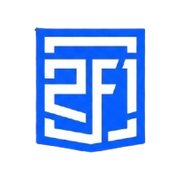
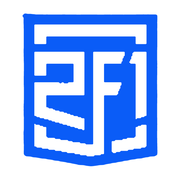
v52 : envoi de notifications depuis l'admin (modèles, cibles, aperçu, envoi par lots), icône agrandie et nette, ouverture des boosters plus propre et plus calme
Claude-Session: https://claude.ai/code/session_01S2mVUtxJozswLfpvQnH4yG

diff --git a/functions/api/[[route]].js b/functions/api/[[route]].js
@@ -100,6 +100,8 @@ const SCHEMA = [
   `CREATE TABLE IF NOT EXISTS photos_perso ( carte TEXT PRIMARY KEY, image TEXT NOT NULL, maj INTEGER NOT NULL )`,
   `CREATE TABLE IF NOT EXISTS rangs ( cle TEXT PRIMARY KEY, nom TEXT NOT NULL, couleur TEXT NOT NULL DEFAULT '#888888', description TEXT NOT NULL DEFAULT '', min_pts INTEGER NOT NULL DEFAULT 0, max_pts INTEGER, ordre INTEGER NOT NULL DEFAULT 0, actif INTEGER NOT NULL DEFAULT 1, divisions INTEGER NOT NULL DEFAULT 1, montee TEXT NOT NULL DEFAULT '', descente TEXT NOT NULL DEFAULT '', recompense_pieces INTEGER NOT NULL DEFAULT 0, recompense_boosters INTEGER NOT NULL DEFAULT 0, logo TEXT, logo_maj INTEGER NOT NULL DEFAULT 0 )`,
   `CREATE TABLE IF NOT EXISTS offres ( cle TEXT PRIMARY KEY, nom TEXT NOT NULL, description TEXT NOT NULL DEFAULT '', badge TEXT NOT NULL DEFAULT '', prix_cents INTEGER NOT NULL, prix_reference_cents INTEGER, reference_note TEXT NOT NULL DEFAULT '', pieces INTEGER NOT NULL DEFAULT 0, boosters TEXT NOT NULL DEFAULT '{}', une_fois INTEGER NOT NULL DEFAULT 0, actif INTEGER NOT NULL DEFAULT 1, ordre INTEGER NOT NULL DEFAULT 0, debut INTEGER, fin INTEGER, maj INTEGER NOT NULL DEFAULT 0 )`,
+  `CREATE TABLE IF NOT EXISTS notifs_campagnes ( id INTEGER PRIMARY KEY AUTOINCREMENT, titre TEXT NOT NULL, texte TEXT NOT NULL, url TEXT NOT NULL, cible TEXT NOT NULL, total INTEGER NOT NULL DEFAULT 0, envoyes INTEGER NOT NULL DEFAULT 0, par TEXT, cree_le INTEGER NOT NULL )`,
+  `CREATE TABLE IF NOT EXISTS notifs_file ( campagne_id INTEGER NOT NULL, user_id INTEGER NOT NULL, PRIMARY KEY (campagne_id, user_id) )`,
   `CREATE TABLE IF NOT EXISTS ouvertures_semaine ( semaine TEXT NOT NULL, user_id INTEGER NOT NULL REFERENCES users(id) ON DELETE CASCADE, score INTEGER NOT NULL, cartes TEXT NOT NULL, pack TEXT, cree_le INTEGER NOT NULL, PRIMARY KEY (semaine, user_id) )`,
   `CREATE TABLE IF NOT EXISTS cosmetiques_achats ( user_id INTEGER NOT NULL REFERENCES users(id) ON DELETE CASCADE, cle TEXT NOT NULL, cree_le INTEGER NOT NULL, PRIMARY KEY (user_id, cle) )`,
   `CREATE TABLE IF NOT EXISTS createurs ( code TEXT PRIMARY KEY COLLATE NOCASE, user_id INTEGER NOT NULL UNIQUE REFERENCES users(id) ON DELETE CASCADE, part INTEGER NOT NULL DEFAULT 10, actif INTEGER NOT NULL DEFAULT 1, cree_le INTEGER NOT NULL )`,
@@ -2724,6 +2726,59 @@ route("GET", "admin/combats", async ({ env }) => {
   const cartes = Object.values(st).map((x) => ({ ...x, taux: Math.round((x.gagnes / x.joues) * 100) }));
   return json({ parJour: { arene: parJourA.results, duels: parJourD.results }, modes: modes.results[0],
     plusJouees: cartes.sort((a, b) => b.joues - a.joues).slice(0, 15), meilleures: cartes.filter((x) => x.joues >= 5).sort((a, b) => b.taux - a.taux).slice(0, 10), pires: cartes.filter((x) => x.joues >= 5).sort((a, b) => a.taux - b.taux).slice(0, 10) });
+}, { admin: true });
+
+
+/* =====================================================================
+   Notifications de l'admin : envoyer une notification (événement, annonce…) à tous ou à un groupe de joueurs
+   L'envoi se fait par lots, relancés par la page d'admin, pour rester sous les limites du Worker.
+   ===================================================================== */
+const CIBLES_NOTIF = {
+  tous: { nom: "Tous les joueurs abonnés", sql: "SELECT DISTINCT a.user_id FROM abonnements a JOIN users u ON u.id = a.user_id WHERE u.banni = 0", args: () => [] },
+  actifs: { nom: "Joueurs actifs (7 derniers jours)", sql: "SELECT DISTINCT a.user_id FROM abonnements a JOIN users u ON u.id = a.user_id WHERE u.banni = 0 AND u.derniere_co > ?", args: (t) => [t - 7 * JOUR] },
+  inactifs: { nom: "Joueurs absents depuis 3 jours (pour les faire revenir)", sql: "SELECT DISTINCT a.user_id FROM abonnements a JOIN users u ON u.id = a.user_id WHERE u.banni = 0 AND COALESCE(u.derniere_co, 0) < ?", args: (t) => [t - 3 * JOUR] },
+  premium: { nom: "Joueurs Premium", sql: "SELECT DISTINCT a.user_id FROM abonnements a JOIN users u ON u.id = a.user_id WHERE u.banni = 0 AND u.premium_jusqu > ?", args: (t) => [t] },
+  guildes: { nom: "Membres d'une guilde", sql: "SELECT DISTINCT a.user_id FROM abonnements a JOIN users u ON u.id = a.user_id JOIN guilde_membres m ON m.user_id = u.id WHERE u.banni = 0", args: () => [] },
+};
+const PAGES_NOTIF = ["accueil", "boosters", "ligues", "hub", "missions", "combat", "albums", "decks", "succes", "passe", "samedi", "guilde", "premium"];
+route("GET", "admin/notifs", async ({ env }) => {
+  const t = maintenant(), comptes = {};
+  for (const [k, c] of Object.entries(CIBLES_NOTIF)) comptes[k] = (await env.DB.prepare(`SELECT COUNT(*) AS n FROM (${c.sql})`).bind(...c.args(t)).first()).n;
+  const { results } = await env.DB.prepare("SELECT id, titre, texte, url, cible, total, envoyes, par, cree_le FROM notifs_campagnes ORDER BY id DESC LIMIT 20").all();
+  return json({ cibles: Object.fromEntries(Object.entries(CIBLES_NOTIF).map(([k, c]) => [k, { nom: c.nom, n: comptes[k] }])), pages: PAGES_NOTIF, historique: results });
+}, { admin: true });
+route("POST", "admin/notifs", async ({ request, env, user }) => {
+  const b = await corps(request), t = maintenant();
+  const titre = String(b.titre || "").trim().slice(0, 80), texte = String(b.texte || "").trim().slice(0, 200);
+  if (titre.length < 2 || texte.length < 2) return erreur("Indiquez un titre et un message.");
+  const page = PAGES_NOTIF.includes(b.page) ? b.page : "accueil", url = page === "accueil" ? "./" : "./#" + page;
+  let ids;
+  if (b.cible === "pseudo") {
+    const u = await env.DB.prepare("SELECT id FROM users WHERE pseudo = ?").bind(String(b.pseudo || "")).first();
+    if (!u) return erreur("Joueur introuvable.", 404);
+    ids = [u.id];
+  } else {
+    const c = CIBLES_NOTIF[b.cible]; if (!c) return erreur("Cible inconnue.");
+    ids = (await env.DB.prepare(c.sql).bind(...c.args(t)).all()).results.map((x) => x.user_id);
+  }
+  if (!ids.length) return erreur("Aucun joueur abonné aux notifications dans cette cible.");
+  const r = await env.DB.prepare("INSERT INTO notifs_campagnes (titre, texte, url, cible, total, par, cree_le) VALUES (?, ?, ?, ?, ?, ?, ?)").bind(titre, texte, url, b.cible === "pseudo" ? "@" + b.pseudo : b.cible, ids.length, user.pseudo, t).run();
+  const id = r.meta.last_row_id;
+  for (let i = 0; i < ids.length; i += 50) await env.DB.batch(ids.slice(i, i + 50).map((u) => env.DB.prepare("INSERT OR IGNORE INTO notifs_file (campagne_id, user_id) VALUES (?, ?)").bind(id, u)));
+  await journaliser(env, user.id, "notification envoyée", `${titre} → ${ids.length} joueur(s)`, "admin");
+  return json({ id, total: ids.length });
+}, { admin: true });
+route("POST", "admin/notifs/(\\d+)/envoyer", async ({ env, p }) => {
+  const c = await env.DB.prepare("SELECT * FROM notifs_campagnes WHERE id = ?").bind(p[1]).first();
+  if (!c) return erreur("Envoi introuvable.", 404);
+  const { results } = await env.DB.prepare("SELECT user_id FROM notifs_file WHERE campagne_id = ? LIMIT 15").bind(c.id).all();
+  for (const { user_id } of results) {
+    await envoyerPush(env, user_id, { titre: c.titre, texte: c.texte, url: c.url }).catch((e) => console.error("notif", e));
+    await env.DB.prepare("DELETE FROM notifs_file WHERE campagne_id = ? AND user_id = ?").bind(c.id, user_id).run();
+  }
+  if (results.length) await env.DB.prepare("UPDATE notifs_campagnes SET envoyes = envoyes + ? WHERE id = ?").bind(results.length, c.id).run();
+  const reste = (await env.DB.prepare("SELECT COUNT(*) AS n FROM notifs_file WHERE campagne_id = ?").bind(c.id).first()).n;
+  return json({ envoyes: c.envoyes + results.length, total: c.total, restants: reste });
 }, { admin: true });
 
 /* =====================================================================

diff --git a/worldcards/v4.js b/worldcards/v4.js
@@ -1155,3 +1155,48 @@ async function adminImages(el) {
     });
   } catch (e) { el.innerHTML = `<p class="err">${esc(e.message)}</p>`; }
 }
+
+/* ---------- Admin : envoyer une notification aux joueurs ---------- */
+const MODELES_NOTIF = [
+  ["🎉 Événement en cours", "🎉 Événement en cours !", "Un événement vient de commencer sur Play2F1 : venez en profiter maintenant !", "accueil"],
+  ["🏟 Tournoi", "🏟 Le tournoi commence !", "Le tournoi du samedi ouvre ses inscriptions : rejoignez-le avant le départ.", "samedi"],
+  ["🎁 Nouveau booster", "🎁 Nouveau booster disponible", "Un nouveau booster vient d'arriver dans la boutique. Qui sortira la légendaire ?", "boosters"],
+  ["⚔ Week-end classé", "⚔ Week-end de combats classés", "Grimpez dans votre ligue ce week-end : la guerre de guildes a commencé !", "ligues"],
+  ["🔧 Maintenance", "🔧 Petite pause technique", "Play2F1 fait une courte maintenance. Merci de votre patience, on revient vite !", "accueil"],
+];
+async function adminNotifs(el) {
+  el.innerHTML = `<p class="muted">Chargement…</p>`;
+  let d; try { d = await api("admin/notifs"); } catch (e) { el.innerHTML = `<p class="err">${esc(e.message)}</p>`; return; }
+  const NOMS_PAGES = { accueil: "Accueil", boosters: "Boutique", ligues: "Ligues", hub: "Communauté", missions: "Missions", combat: "Combat", albums: "Albums", decks: "Decks", succes: "Succès", passe: "Passe de saison", samedi: "Tournoi du samedi", guilde: "Guildes", premium: "Premium" };
+  el.innerHTML = `<section class="panel"><h3 style="margin-top:0">🔔 Envoyer une notification</h3>
+      <p class="muted">Elle arrive sur le téléphone ou l'ordinateur des joueurs qui ont activé les notifications, même jeu fermé. Toucher la notification ouvre la page choisie.</p>
+      <div class="toolbar">${MODELES_NOTIF.map((m, i) => `<button class="chip" data-modele="${i}">${esc(m[0])}</button>`).join("")}</div>
+      <form class="form" id="fNotif"><div class="rf-grille">
+        <label class="large">Titre<input name="titre" maxlength="80" required placeholder="Ex. : 🎉 Événement Halloween en cours !"></label>
+        <label class="large">Message<input name="texte" maxlength="200" required placeholder="Ex. : 12 cartes exclusives jusqu'à dimanche : ouvrez vite un booster !"></label>
+        <label>Page ouverte au toucher<select name="page">${d.pages.map((p) => `<option value="${p}">${esc(NOMS_PAGES[p] || p)}</option>`).join("")}</select></label>
+        <label>Destinataires<select name="cible">${Object.entries(d.cibles).map(([k, c]) => `<option value="${k}">${esc(c.nom)} (${c.n})</option>`).join("")}<option value="pseudo">Un seul joueur (test)</option></select></label>
+        <label id="nfPseudo" hidden>Pseudo<input name="pseudo" maxlength="20"></label></div>
+        <div class="notif-apercu"><img src="icons/icon-192.png" alt=""><div><b id="nfT">Titre</b><span id="nfX">Message</span></div><small>Play2F1 · maintenant</small></div>
+        <button class="btn primary" id="nfGo">📣 Envoyer</button> <span class="muted" id="nfEtat"></span></form></section>
+    <section class="panel"><h3 style="margin-top:0">Historique</h3>${d.historique.length ? `<table class="classement"><tbody>${d.historique.map((h) => `<tr><td>${depuis(h.cree_le)}</td><td><b>${esc(h.titre)}</b><br><small class="muted">${esc(h.texte)}</small></td><td>${esc(d.cibles[h.cible]?.nom || h.cible)}</td><td>${h.envoyes}/${h.total}</td></tr>`).join("")}</tbody></table>` : `<p class="muted">Aucune notification envoyée pour l'instant.</p>`}</section>`;
+  const f = $("#fNotif");
+  const apercu = () => { $("#nfT").textContent = f.titre.value || "Titre"; $("#nfX").textContent = f.texte.value || "Message"; $("#nfPseudo").hidden = f.cible.value !== "pseudo"; };
+  f.oninput = apercu; f.onchange = apercu;
+  $$("[data-modele]", el).forEach((b) => b.onclick = () => { const m = MODELES_NOTIF[b.dataset.modele]; f.titre.value = m[1]; f.texte.value = m[2]; f.page.value = m[3]; apercu(); });
+  f.onsubmit = async (e) => {
+    e.preventDefault();
+    const nb = f.cible.value === "pseudo" ? 1 : d.cibles[f.cible.value]?.n || 0;
+    if (!confirm(`Envoyer « ${f.titre.value} » à ${nb} joueur(s) ?`)) return;
+    $("#nfGo").disabled = true;
+    try {
+      const { id, total } = await api("admin/notifs", { methode: "POST", corps: Object.fromEntries(new FormData(f)) });
+      for (;;) {
+        const r = await api(`admin/notifs/${id}/envoyer`, { methode: "POST", corps: {} });
+        $("#nfEtat").textContent = `Envoi… ${r.envoyes}/${total}`;
+        if (!r.restants) break;
+      }
+      toast(`📣 Notification envoyée à ${total} joueur(s).`); adminNotifs(el);
+    } catch (err) { $("#nfEtat").textContent = "⚠ " + err.message; $("#nfGo").disabled = false; }
+  };
+}

diff --git a/worldcards/compte.js b/worldcards/compte.js
@@ -965,7 +965,7 @@ async function vueAdmin(v) {
   if (!COMPTE.admin) { v.innerHTML = `<div class="panel"><p>Accès réservé à l'administrateur.</p><button class="btn" data-aller="compte">Mon compte</button></div>`; brancherLiens(v); return; }
   v.innerHTML = `<div class="sectiontitle"><h3>👑 Administration</h3><span class="muted">Connecté en tant que ${esc(COMPTE.pseudo)}</span></div>
     <div class="statgrid" id="aStats"><div class="stat"><b>…</b><span>chargement</span></div></div>
-    <div class="toolbar" style="margin-top:16px">${[["joueurs", "👥 Joueurs"], ["metrics", "📊 Trafic & Métriques"], ["securite", "🚨 Bouclier Anti-Bot"], ["bugs", "💡 Boîte à Idées & Bugs"], ["evenements", "🎉 Événements"], ["photos", "📷 Photos"], ["avatars", "🖼 Photos de profil"], ["moderation", "🛡 Modération"], ["ventes", "💰 Ventes"], ["visuels", "🖼 Visuels boosters"], ["offres", "🛍 Packs & offres"], ["createurs", "🎙 Créateurs & dédicaces"], ["combats", "📊 Combats"], ["ligues", "🏅 Ligues et rangs"], ["reglages", "🎲 Chances & règles"], ["images", "💾 Images & stockage"], ["integrations", "🔌 Intégrations"], ["premium", "💎 Premium"], ["signalements", "🚩 Signalements"], ["cadeaux", "🎁 Cadeaux"], ["annonce", "📌 Annonce"], ["outils", "🧪 Outils de test"]].map(([k, l]) => `<button class="chip ${adminEtat.onglet === k ? "on" : ""}" data-a="${k}">${l}</button>`).join("")}</div>
+    <div class="toolbar" style="margin-top:16px">${[["joueurs", "👥 Joueurs"], ["metrics", "📊 Trafic & Métriques"], ["securite", "🚨 Bouclier Anti-Bot"], ["bugs", "💡 Boîte à Idées & Bugs"], ["evenements", "🎉 Événements"], ["photos", "📷 Photos"], ["avatars", "🖼 Photos de profil"], ["moderation", "🛡 Modération"], ["ventes", "💰 Ventes"], ["visuels", "🖼 Visuels boosters"], ["offres", "🛍 Packs & offres"], ["createurs", "🎙 Créateurs & dédicaces"], ["combats", "📊 Combats"], ["ligues", "🏅 Ligues et rangs"], ["reglages", "🎲 Chances & règles"], ["images", "💾 Images & stockage"], ["integrations", "🔌 Intégrations"], ["premium", "💎 Premium"], ["signalements", "🚩 Signalements"], ["cadeaux", "🎁 Cadeaux"], ["notifs", "🔔 Notifications"], ["annonce", "📌 Annonce"], ["outils", "🧪 Outils de test"]].map(([k, l]) => `<button class="chip ${adminEtat.onglet === k ? "on" : ""}" data-a="${k}">${l}</button>`).join("")}</div>
     <div id="aCorps"></div>`;
   $$("[data-a]", v).forEach((b) => b.onclick = () => { adminEtat.onglet = b.dataset.a; aller("admin"); });
   api("admin/stats").then((s) => {
@@ -973,7 +973,7 @@ async function vueAdmin(v) {
       .map(([l, n]) => `<div class="stat"><b>${fmt(n)}</b><span>${l}</span></div>`).join("");
   }).catch((e) => { $("#aStats").innerHTML = `<p class="err">${esc(e.message)}</p>`; });
   const corps = $("#aCorps");
-  ({ joueurs: adminJoueurs, metrics: adminMetrics, securite: adminSecurite, bugs: adminBugs, evenements: adminEvenements, photos: adminPhotos, avatars: adminAvatars, moderation: adminModeration, integrations: adminIntegrations, ventes: adminVentes, visuels: adminVisuels, offres: adminOffres, createurs: adminCreateurs, ligues: adminRangs, combats: adminCombats, images: adminImages, reglages: adminReglages, premium: adminPremium, signalements: adminSignalements, cadeaux: adminCadeaux, annonce: adminAnnonce, outils: adminOutils })[adminEtat.onglet](corps);
+  ({ joueurs: adminJoueurs, metrics: adminMetrics, securite: adminSecurite, bugs: adminBugs, evenements: adminEvenements, photos: adminPhotos, avatars: adminAvatars, moderation: adminModeration, integrations: adminIntegrations, ventes: adminVentes, visuels: adminVisuels, offres: adminOffres, createurs: adminCreateurs, ligues: adminRangs, combats: adminCombats, images: adminImages, reglages: adminReglages, premium: adminPremium, signalements: adminSignalements, cadeaux: adminCadeaux, notifs: adminNotifs, annonce: adminAnnonce, outils: adminOutils })[adminEtat.onglet](corps);
 }
 async function adminJoueurs(el) {
   el.innerHTML = `<input class="search" id="aq" type="search" placeholder="Rechercher un joueur…" value="${esc(adminEtat.q)}" style="max-width:none;width:100%;margin-bottom:10px">

diff --git a/worldcards/style.css b/worldcards/style.css
@@ -2034,3 +2034,31 @@ body[data-fond-streamer="vert"] { background: #00b140 !important; } body[data-fo
 .barres > div { position: relative; flex: 1; height: 100%; display: flex; flex-direction: column-reverse; }
 .barres i { display: block; width: 100%; } .barres .b-arene { background: var(--muted); border-radius: 4px 4px 0 0; } .barres .b-duel { background: var(--accent); }
 .barres small { position: absolute; bottom: -18px; left: 50%; transform: translateX(-50%); font-size: 10.5px; color: var(--muted); }
+.notif-apercu { display: grid; grid-template-columns: 40px 1fr auto; gap: 10px; align-items: center; max-width: 420px; margin: 12px 0; padding: 10px 12px; border-radius: 14px; background: rgba(240, 240, 245, .96); color: #111; box-shadow: 0 6px 20px rgba(0,0,0,.3); }
+.notif-apercu img { width: 40px; height: 40px; border-radius: 10px; } .notif-apercu div { display: flex; flex-direction: column; min-width: 0; } .notif-apercu span { font-size: 13.5px; } .notif-apercu small { color: #666; align-self: start; font-size: 11px; }
+
+/* ===== Ouverture des boosters : cadre propre et animations calmes ===== */
+/* Plus de barres de défilement : les effets restent dans la fenêtre */
+#modal.plein .box:has(.poke) { overflow-x: hidden; }
+.poke-scene:not(:has(.opening)) { overflow: hidden; border-radius: 20px; }
+/* Une fois retournée, le dos de la carte disparaît (il dépassait derrière la carte en cadre coloré) */
+.pk-carte .flip.done > .face.back { visibility: hidden; transition: visibility 0s .25s; }
+/* Un halo fixe de la couleur de la rareté remplace les rayons qui tournaient */
+.pk-carte.eclat::before { inset: -22%; -webkit-mask: none; mask: none; filter: blur(8px); animation: apparait .5s ease-out;
+  background: radial-gradient(closest-side, var(--halo, rgba(255, 230, 140, .5)), transparent 78%); }
+.pk-carte.eclat:has(.shiny)::before { background: radial-gradient(closest-side, rgba(255, 106, 213, .38), rgba(110, 255, 198, .22) 55%, transparent 80%); }
+.poke-scene[data-ambiance="rare"] { --halo: rgba(90, 150, 255, .42); }
+.poke-scene[data-ambiance="epique"] { --halo: rgba(170, 100, 255, .45); }
+.poke-scene[data-ambiance="ultra-rare"] { --halo: rgba(255, 100, 80, .45); }
+.poke-scene[data-ambiance="legendaire"] { --halo: rgba(255, 200, 60, .5); }
+.poke-scene[data-ambiance] { background: none; }
+/* Suspense : la carte respire doucement au lieu de trembler */
+.flip.suspense { animation: suspense-doux .55s ease-in-out infinite alternate; }
+@keyframes suspense-doux { to { transform: scale(1.035); } }
+/* Le dos des cartes rares brille sans clignoter, le paquet flotte à peine */
+.pk-carte .flip.grand > .face.back.glow-legendaire, .pk-carte .flip.grand > .face.back.glow-shiny { animation: none; }
+.pack.grand:not(.dechire) { animation: flotte-doux 3.2s ease-in-out infinite; }
+@keyframes flotte-doux { 50% { transform: translateY(-5px); } }
+/* Pendant l'ouverture, la carte reste droite (elle ne suit plus la souris) */
+.pk-carte .card.tilt { transform: none !important; }
+.pk-carte .card.tilt .in::before { content: none; }

diff --git a/worldcards/app.js b/worldcards/app.js
@@ -39,7 +39,7 @@ const RARETES = {
 const TYPES = { pays: "Pays", ville: "Ville", monument: "Monument", nature: "Nature", animal: "Animal", plat: "Gastronomie", culture: "Culture", merveille: "Merveille", secrete: "Secrète" };
 const EMOJI_TYPE = { pays: "🌍", ville: "🏙", monument: "🏛", nature: "🏔", animal: "🐾", plat: "🍜", culture: "🎭", merveille: "🌟", secrete: "✦" };
 const PLURIEL = { pays: "Pays", ville: "Villes", monument: "Monuments", nature: "Nature", animal: "Animaux", plat: "Gastronomie", culture: "Culture", merveille: "Merveilles", secrete: "Secrètes" };
-const VERSION_JEU = "v51"; // affichée en bas de page : permet de vérifier que la dernière version est en ligne
+const VERSION_JEU = "v52"; // affichée en bas de page : permet de vérifier que la dernière version est en ligne
 const CHANCE_SHINY = 1 / 45; // chaque carte d'un booster peut sortir en version Shiny
 const CHANCE_HOLO = 1 / 10;  // ou en version Holo (reflet irisé, purement décoratif)
 const GRATUIT_MS = 12 * 3600e3; // un booster gratuit toutes les 12 heures
@@ -1341,7 +1341,7 @@ function ouvrirBooster(type) {
   const couleurRarete = { "commun": "#d6dbe0", "peu-commun": "#6ee0a6", "rare": "#8fb8ff", "epique": "#d1a2ff", "ultra-rare": "#ff8a7a", "legendaire": "#ffd34d" };
   function etincelles(n, couleur) {
     for (let k = 0; k < n; k++) {
-      const el = document.createElement("i"), a = Math.random() * Math.PI * 2, dist = 90 + Math.random() * 170;
+      const el = document.createElement("i"), a = Math.random() * Math.PI * 2, dist = 80 + Math.random() * 110;
       el.className = "etincelle";
       el.style.cssText = `--x:${Math.cos(a) * dist}px;--y:${Math.sin(a) * dist}px;--d:${0.6 + Math.random() * 0.7}s;--ec:${couleur === "shiny" ? `hsl(${Math.random() * 360} 95% 70%)` : couleur}`;
       scene.appendChild(el); setTimeout(() => el.remove(), 1400);

diff --git a/worldcards/sw.js b/worldcards/sw.js
@@ -1,7 +1,7 @@
 "use strict";
 // Service worker de Play2F1 : le jeu fonctionne hors ligne et se charge instantanément.
 // Changez VERSION à chaque mise en ligne pour forcer la mise à jour du cache.
-const VERSION = "wc-2026-10-12-51";
+const VERSION = "wc-2026-10-12-52";
 const COEUR = ["./","index.html","style.css","app.js","compte.js","combat.js","combat-ui.js","extras.js","social.js","v3.js","v4.js","i18n.js","manifest.webmanifest", "apple-touch-icon.png","data/silhouettes.js","data/monde.js","data/villes2.js","data/monuments2.js","data/villes3.js","data/monuments3.js","data/nature.js","data/animaux.js","data/plats.js","data/monuments4.js","data/nature2.js","data/animaux2.js","data/plats2.js","data/culture.js","data/extensions.js","data/pays-af.js","data/pays-euas.js","data/pays-amoc.js","data/pays-moyens.js","data/pays-plus.js","data/evenements.js","data/saisons.js","data/photos.js","data/photos-pays.js","icons/apple-touch-icon.png","icons/apple-180.png","icons/favicon-32.png","icons/icon-192.png","icons/icon-512.png","icons/icon-maskable-512.png","icons/icon.svg","icons/logo-2f1.png","icons/logo-site.png"];
 
 self.addEventListener("install", (e) => {
